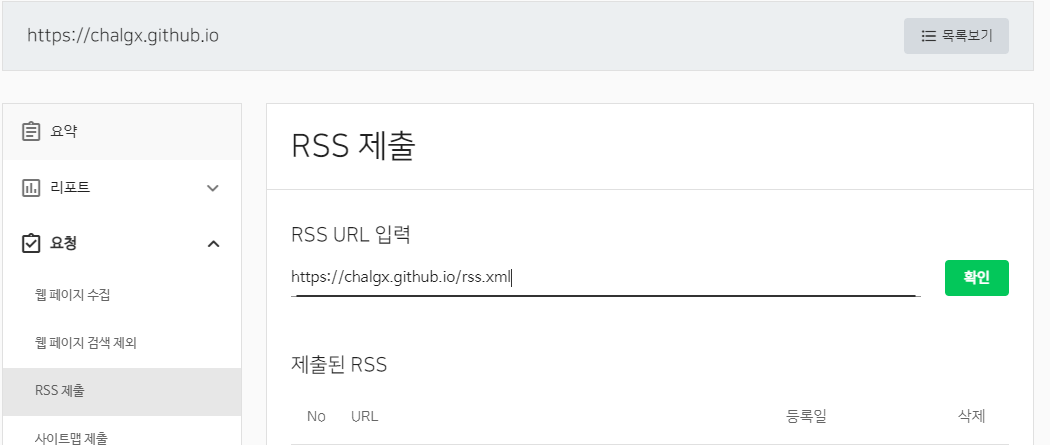
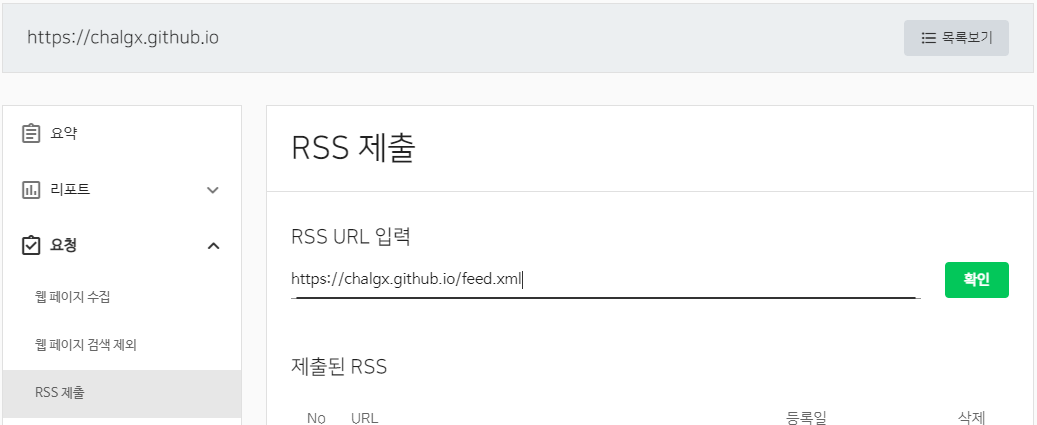
.

diff --git a/_includes/head/custom.html b/_includes/head/custom.html
@@ -1,5 +1,5 @@
 <!-- start custom head snippets -->
-<link rel="alternate" type="application/rss+xml" href="{{ site.url }}/feed.xml" title="{{ site.title }} Feed">
+<link rel="alternate" type="application/rss+xml" href="{{ site.url }}/rss.xml" title="{{ site.title }} Feed">
 <!-- insert favicons. use https://realfavicongenerator.net/ -->
 
 <!-- end custom head snippets -->
